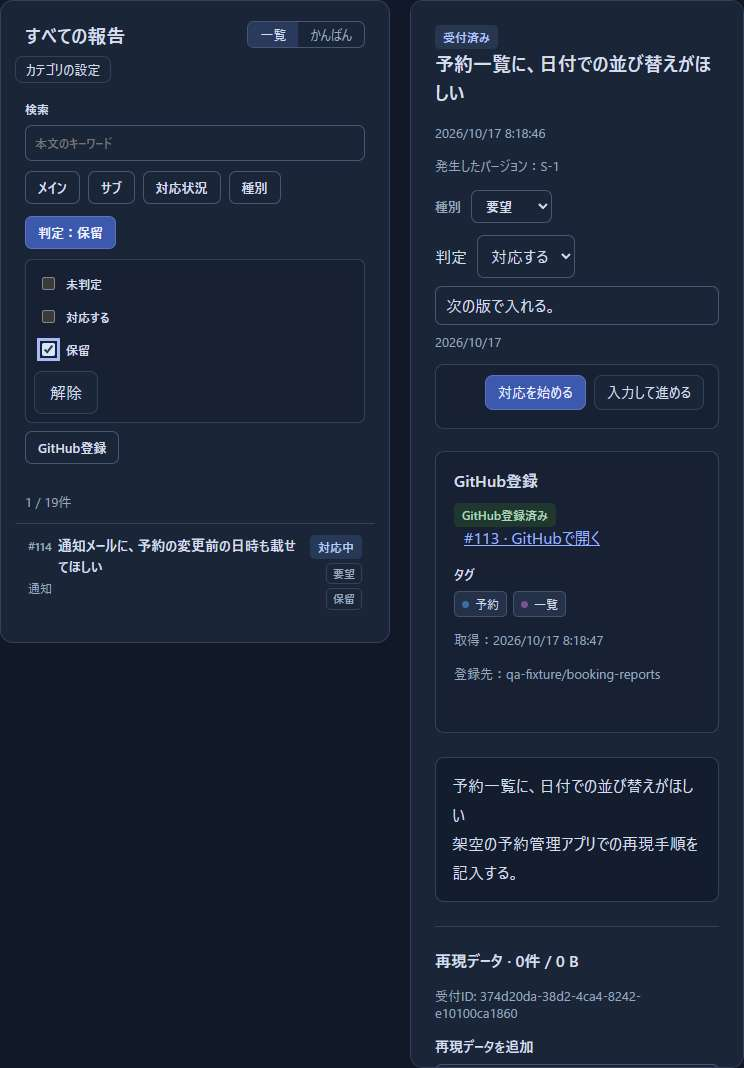
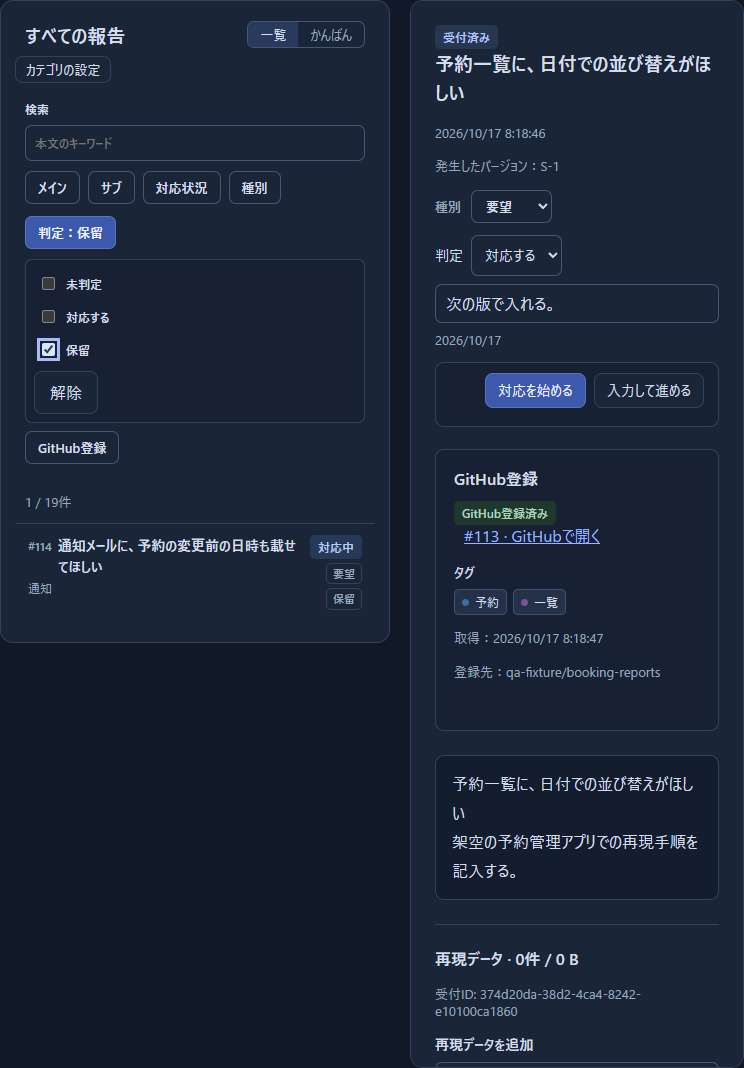
fix(bugs): 判定の名前の太さを、種別の名前にそろえ、画像を撮り直す
Refs #82

diff --git a/dist/bugs/style.css b/dist/bugs/style.css
@@ -39,7 +39,7 @@ button.board-title{cursor:pointer}
 .thread-line{margin:0;line-height:1.6}
 .thread-note{margin:6px 0 2px;border:1px solid var(--line);border-radius:9px;padding:10px 14px;background:#141d2e;white-space:pre-wrap;line-height:1.7}
 .detail form.decision-edit{display:flex;flex-wrap:wrap;align-items:center;gap:8px 10px;margin:12px 0}
-.decision-label{display:inline-flex;align-items:center;gap:8px}
+.decision-label{display:inline-flex;align-items:center;gap:8px;font-weight:400}
 .decision-edit select{width:auto}
 .decision-edit input{flex:1 1 14em;min-width:0;font:inherit;border:1px solid #465674;border-radius:7px;background:#1b2538;padding:8px 10px;color:var(--ink)}
 .decision-edit button{padding:7px 12px;font-size:14px}
